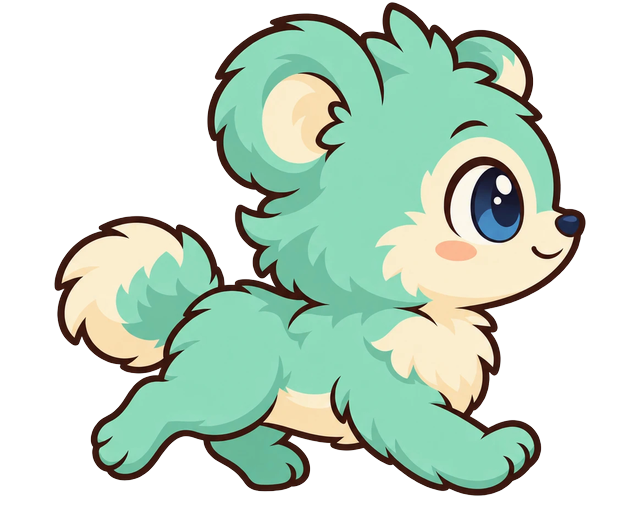
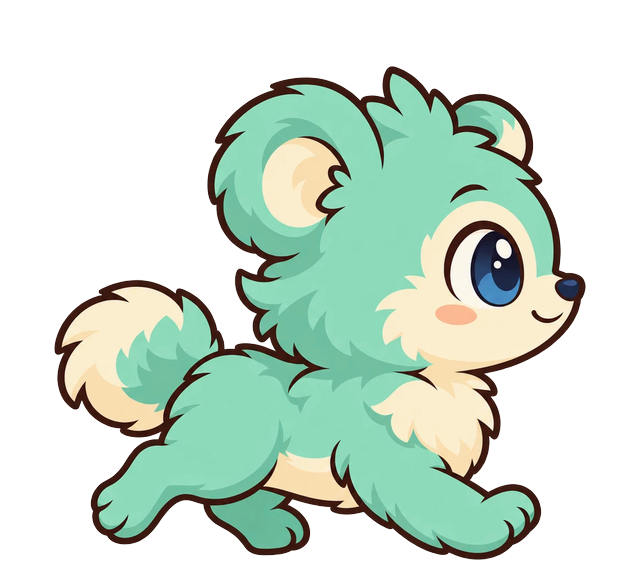
Karakter tuvali 640x576: run2'nin kırpılan tüyü düzeltildi
Claude-Session: https://claude.ai/code/session_018fPM2RtNHVRPiWAchGStGm

diff --git a/oyun-fikirlerim/iki-kisilik-oyun/tools_sprite.py b/oyun-fikirlerim/iki-kisilik-oyun/tools_sprite.py
@@ -3,7 +3,7 @@ Kullanım: python3 tools_sprite.py <kaynak.webp|png> <hedef.png>
 Hepsi aynı ölçekle işlenir, böylece pozlar arasında boyut tutarlı kalır."""
 import sys
 from PIL import Image
-SCALE, W, H, PAD = 0.55, 640, 512, 16   # kaynak px -> çıktı px, tuval, alt boşluk
+SCALE, W, H, PAD = 0.55, 640, 576, 16   # kaynak px -> çıktı px, tuval, alt boşluk
 im = Image.open(sys.argv[1]).convert('RGBA')
 im.putalpha(im.getchannel('A').point(lambda v: 0 if v < 16 else v))  # kenar gürültüsünü sil
 im = im.crop(im.getbbox())
